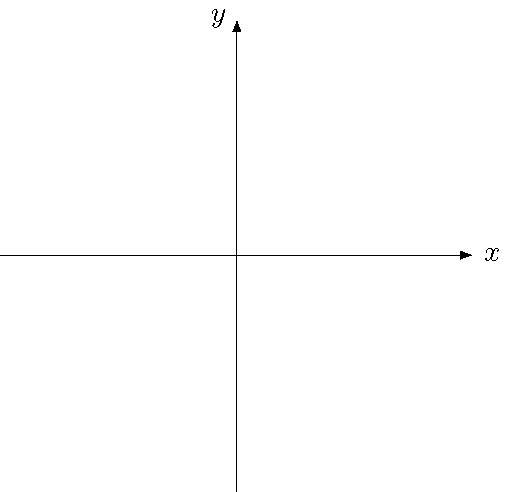
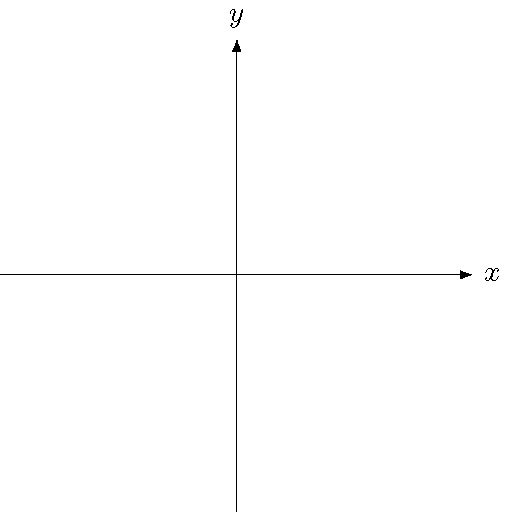
618-1

Changed region(s): [[0.0, 0.4878, 0.9706, 0.5488], [0.4118, 0.0, 0.4706, 0.122]]

diff --git a/_posts/2019-6-17-tikz-1.md b/_posts/2019-6-17-tikz-1.md
@@ -187,9 +187,9 @@ layout: default.html
 
 \begin{document}
     \begin{tikzpicture}
-        \draw [gray, very thin] (-3.1,-3.1) grid (3.1,3.1);
-        \draw [thick, -Latex](-3.2,0) -- (3.2,0) node[right]{$x$};
-        \draw [thick, -Latex](0,-3.2) -- (0,3.2) node[left]{$y$};
+        \draw [gray!30, very thin] (-3.1,-3.1) grid (3.1,3.1);
+        \draw [-Latex](-3.2,0) -- (3.2,0) node[right]{$x$};
+        \draw [-Latex](0,-3.2) -- (0,3.2) node[above]{$y$};
     \end{tikzpicture}
 \end{document}
 ```
